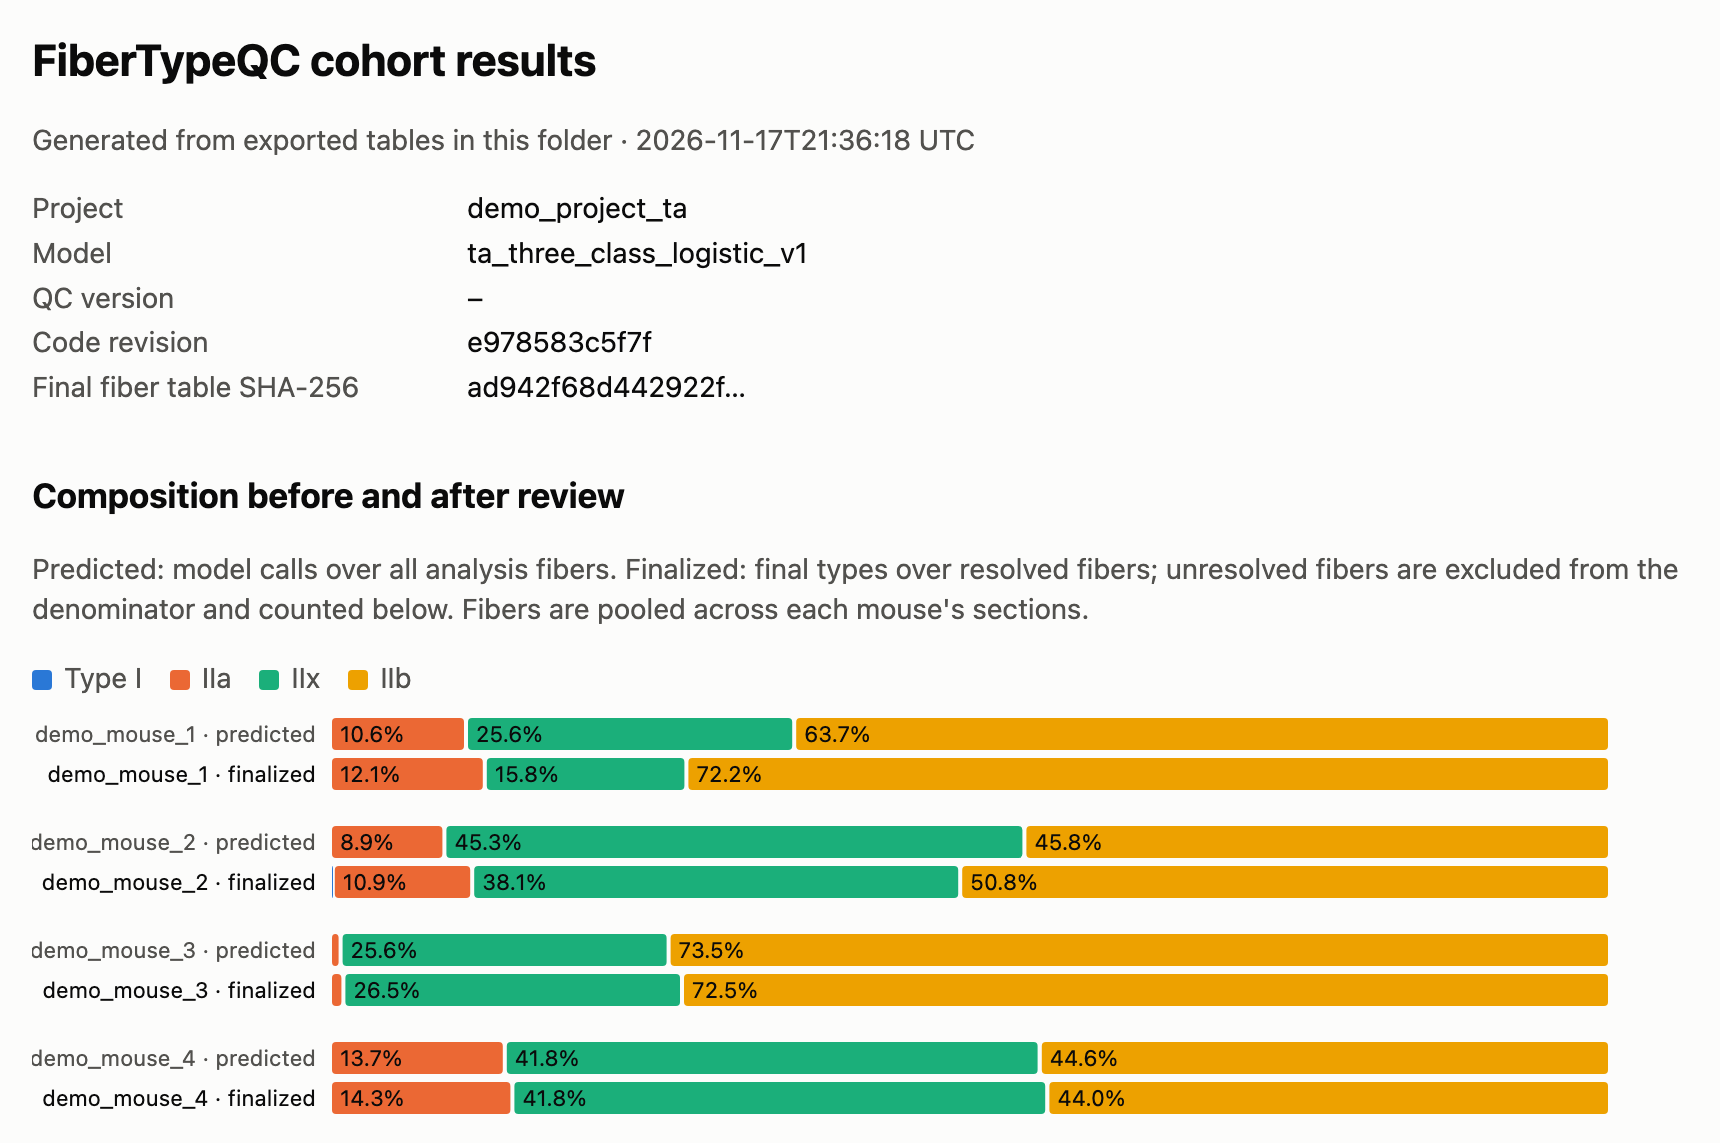
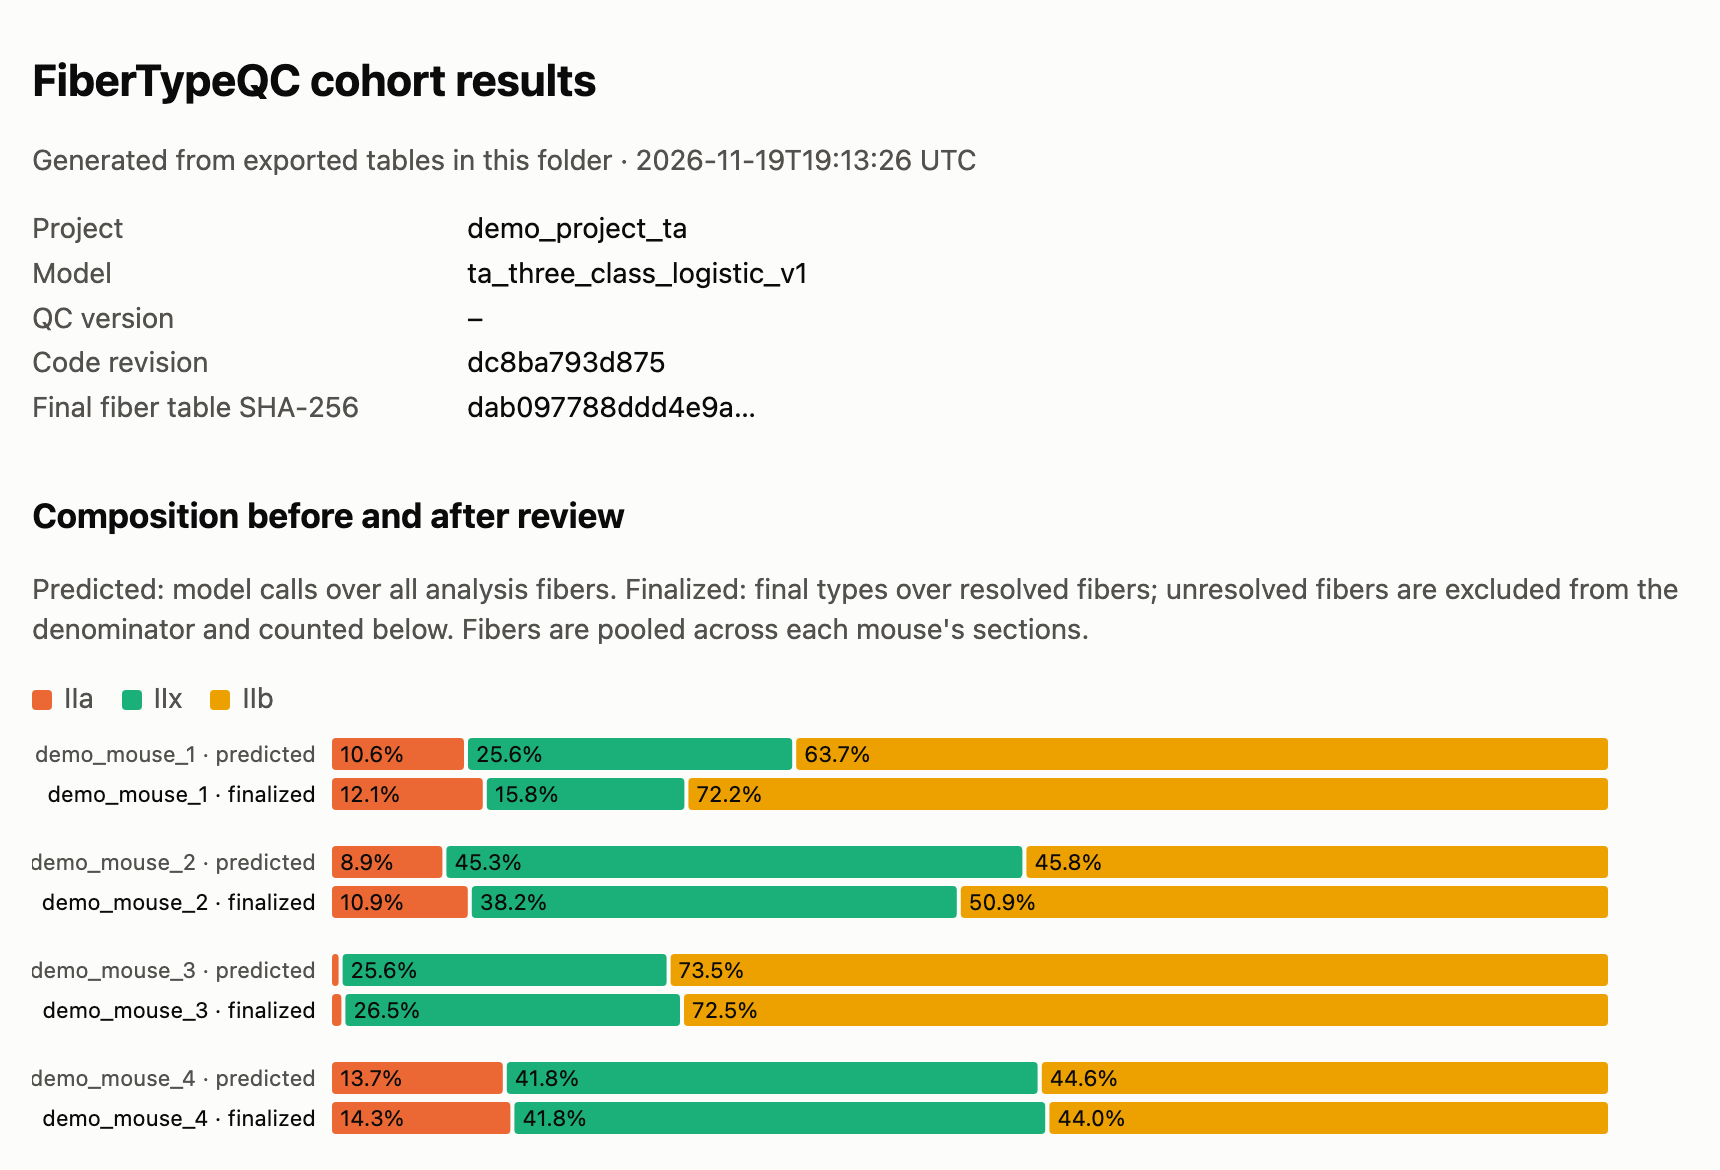
Demo: correct the example review's Type I fiber; regenerate report images
Fiber 39 of demo_section_b was recorded as Type I on the three-class TA panel. It
is marked uncertain with scripts/mark_fiber_uncertain.py (no class chosen; the
earlier decisions stay in the event log) and the demo is finalized again.
docs/demo.md gives the new reviewed count (182 for demo_mouse_2) and the exact
commands; the README report images are re-captured from the corrected report.
The corrected fibertypeqc_demo.zip ships with the next release.

diff --git a/docs/demo.md b/docs/demo.md
@@ -104,13 +104,22 @@ Its mouse-level summary (percent of resolved fibers, IIb / IIa / IIx):
 | Mouse | Age | Fibers | Excluded | Reviewed | Model calls | After review |
 |---|---|---|---|---|---|---|
 | demo_mouse_1 | 1 month | 334 | 61 | 102 | 64 / 11 / 26 | 72 / 12 / 16 |
-| demo_mouse_2 | 1 month | 531 | 72 | 183 | 46 / 9 / 45 | 51 / 11 / 38 |
+| demo_mouse_2 | 1 month | 531 | 72 | 182 | 46 / 9 / 45 | 51 / 11 / 38 |
 | demo_mouse_3 | 12 months | 550 | 70 | 55 | 74 / 1 / 26 | 72 / 1 / 26 |
 | demo_mouse_4 | 12 months | 560 | 55 | 66 | 45 / 14 / 42 | 44 / 14 / 42 |
 
 Nearly all exclusions are fibers cut off by the crop edge. Your own review will differ where your
 judgment does; the IIb/IIx split in particular depends on the absence of stain and is partly
 subjective.
+
+**Correction (from the v0.5.2 download).** The example review had recorded one fiber
+(`demo_section_b`, fiber 39) as Type I, a class this three-class panel cannot produce; an older
+review window offered every class. That fiber is now marked uncertain, so it is unresolved rather
+than given a class, and demo_mouse_2 has 182 reviewed fibers instead of 183. The earlier
+decisions remain in `review/review/review_events.csv`. The correction was made with
+`uv run python -m scripts.mark_fiber_uncertain demo_project_completed/review/project.yaml
+demo_section_b 39 --reason unsupported_class_type_i_on_ta_panel`, then `finalize`. Finalization
+now refuses such a class instead of using it.
 
 ## Build a model (no model to start from)
 

diff --git a/CHANGELOG.md b/CHANGELOG.md
@@ -14,6 +14,15 @@
   run artifacts, still said 0.5.0 in v0.5.1; it now matches `pyproject.toml`, and a test keeps
   the two and `CITATION.cff` in step.
 
+### Demo data
+
+- The completed demo's example review had one fiber (`demo_section_b`, fiber 39) recorded as
+  Type I on the three-class TA panel. It is now marked uncertain (unresolved, no class chosen)
+  with `scripts/mark_fiber_uncertain.py`, the project is finalized again, and the earlier
+  decisions stay in the event log. demo_mouse_2 has 182 reviewed fibers instead of 183; rounded
+  compositions are unchanged. The corrected `fibertypeqc_demo.zip` ships with the next release;
+  the README report images are regenerated from it.
+
 ### Documentation
 
 - ROADMAP: the outside test (C3) is described as what it was: an install and a demonstration
